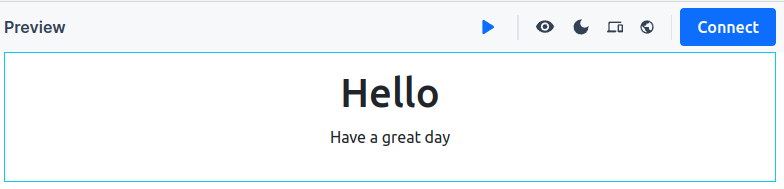
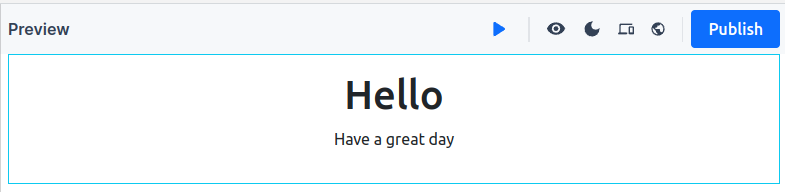
greeter 배포 추가

diff --git a/README.md b/README.md
@@ -66,6 +66,7 @@ return (
 2. Preview 탭에 `Hello have a great day`를 표시하는 화면을 확인해주세요.
 
 ![greet_preview](assets/images/greet_preview.png)
+
 ## 5. Greeter 컴포넌트에 Props를 전달하기
 1. Props 탭을 선택해주세요.
 
@@ -80,9 +81,25 @@ return (
 3. Preview 탭에 표시되는 화면이 바뀐것을 확인해주세요.
 
 ![preview_whoru](assets/images/preview_whoru.png)
+
 ## 6. Greeter 컴포넌트 배포하기
+1. Publish 버튼을 클릭해주세요.
+
+![publish_button](assets/images/publish_button.png)
+
+2. Saving data 대화 상자가 나타나는 것을 확인해주세요.
+
+![saving_data_dialog](image.png)
+![saving_data_dialog](assets/images/saving_data_dialog.png)
+
+3. Save Data 버튼을 클릭해주세요.
+
+![save_data_button](assets/images/save_data_button.png)
+
+4. My Widgets에 `Greeter` 컴포넌트가 추가된 것을 확인해주세요.
+
+![my_widget](assets/images/my_widget.png)
 
 ## 6. Composition 컴포넌트 만들기
 
 ## 7. Greeter 컴포넌트를 불러오기
-
